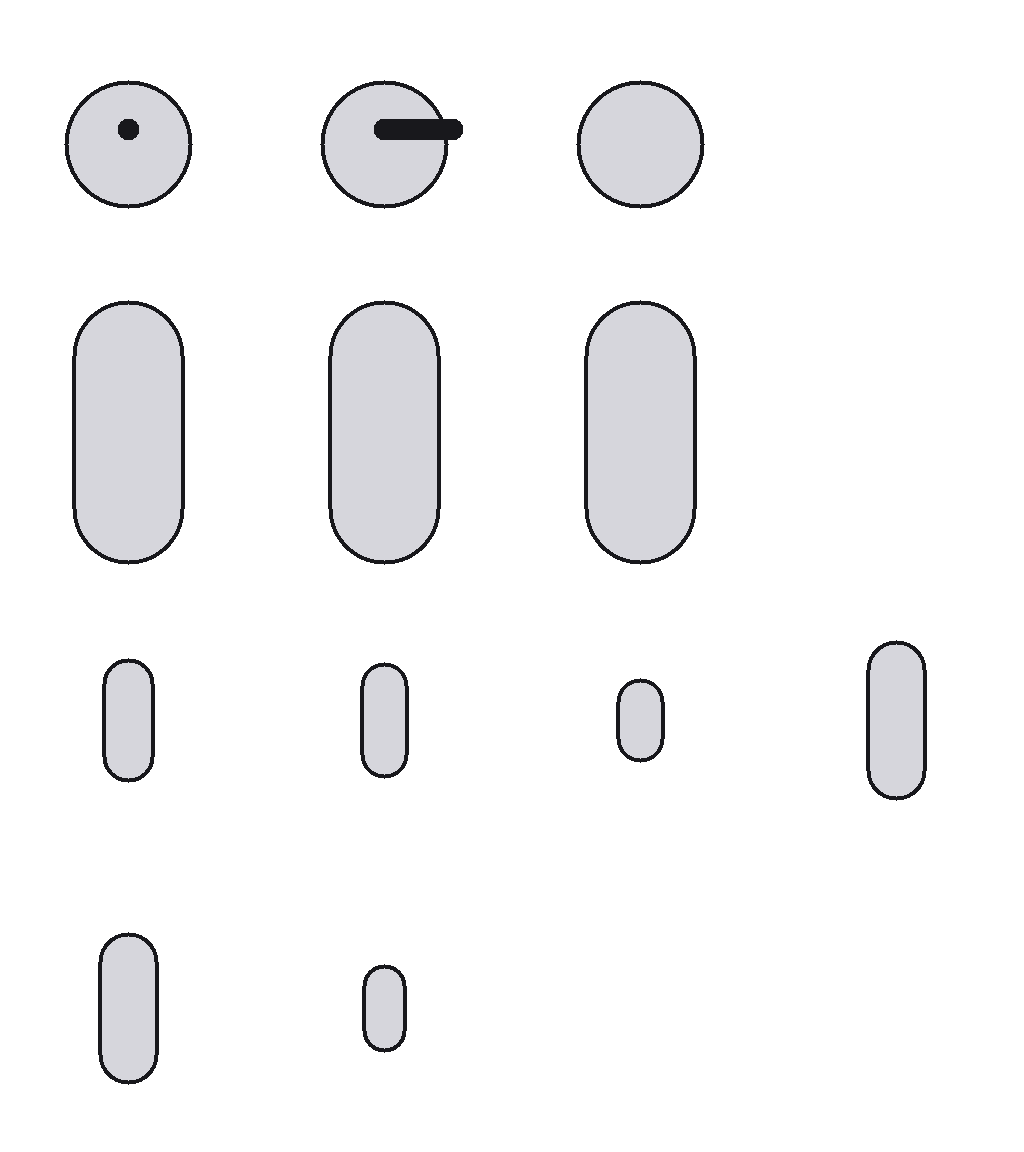
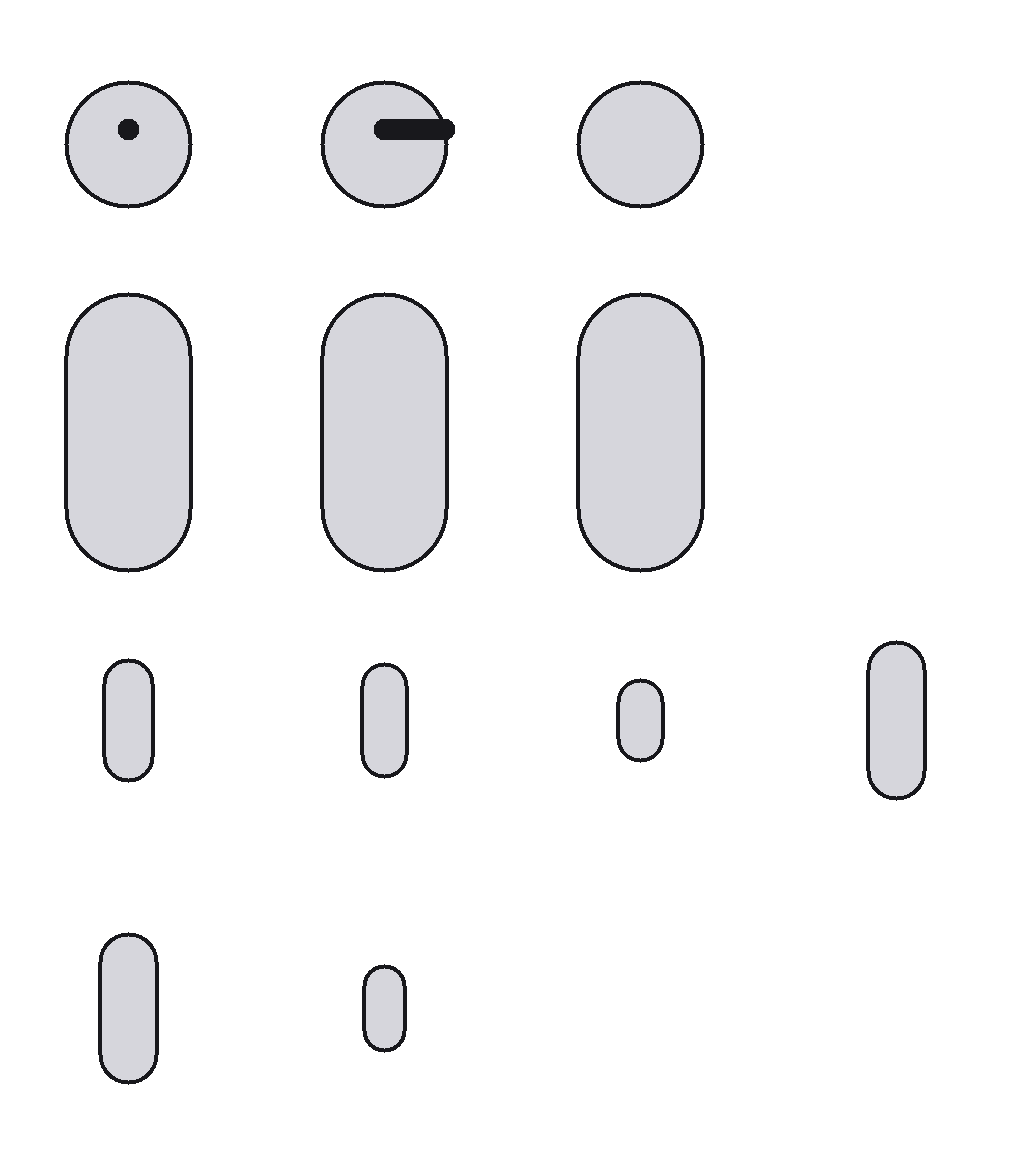
fix(mannequin): rend la pose lisible — contours, articulations, mains
Le PO ne parvenait pas à lire le gabarit, et il avait raison : les bras
disparaissaient dans le torse. Cause exacte — tous les contours étaient peints
d'abord, puis tous les remplissages, si bien que le remplissage du torse
effaçait le contour des bras. Chaque os porte désormais son contour avec lui.

Ajoute une rotule au genou et au coude, sans quoi cuisse et tibia forment un
trait continu dont l'angle se devine ; les mains, sans quoi le bras s'arrête net
là où se tient justement l'arme ; et affine le nez, qui se lisait de face comme
un œil unique au milieu du visage.

L'invariant est isolé dans `paintBones`, exporté, et testé sur deux os choisis :
mesuré sur le mannequin entier, la régression passait inaperçue car les rotules
remettaient de l'encre au milieu du corps. Preuve par mutation faite — le test
tombe sur l'ancien ordre de peinture.

diff --git a/src/artprep/mannequin.ts b/src/artprep/mannequin.ts
@@ -22,8 +22,12 @@ export const GROUND_PAD: number = 14;
 
 /** Épaisseur des membres, en pixels de rayon. */
 const LIMB_R: number = 13;
-const TORSO_R: number = 26;
+const TORSO_R: number = 30;
 const OUTLINE: number = 4;
+/** Rayon du nez. Assez fin pour rester un REPÈRE : plus épais, il se lisait de
+ *  face comme un œil unique au milieu du visage, et le générateur pouvait le
+ *  prendre pour un trait du personnage. */
+const NOSE_R: number = 6;
 
 const INK: readonly [number, number, number] = [24, 24, 28];
 /** Membre le plus PROCHE du spectateur. */
@@ -72,22 +76,54 @@ export function capsule(img: Rgba, a: Projected, b: Projected, r: number, c: rea
 }
 
 /** Un segment de membre : ses deux bouts à l'écran et sa profondeur moyenne. */
-interface Bone {
+export interface Bone {
   a: Projected;
   b: Projected;
   r: number;
   depth: number;
+  /** Dessiner une rotule à l extrémité `a` : le point où ce membre plie. */
+  joint?: boolean;
 }
 
-function bone(from: Vec3, to: Vec3, view: View, r: number, ox: number, oy: number): Bone {
+function bone(from: Vec3, to: Vec3, view: View, r: number, ox: number, oy: number, joint: boolean = false): Bone {
   const a: Projected = place(project(from, view), ox, oy);
   const b: Projected = place(project(to, view), ox, oy);
-  return { a, b, r, depth: (a.depth + b.depth) / 2 };
+  return { a, b, r, depth: (a.depth + b.depth) / 2, joint };
 }
 
 /** Passe du repère du squelette (y vers le haut, sol à 0) à celui de l'image. */
 function place(p: Projected, ox: number, oy: number): Projected {
   return { x: ox + p.x, y: oy - p.y, depth: p.depth };
+}
+
+/**
+ * Peint des os déjà triés du plus lointain au plus proche. MUTE `img`.
+ *
+ * Chaque os porte son contour AVEC lui, dans la même itération que son
+ * remplissage. C'est l'invariant de ce module, et il n'est pas cosmétique :
+ * peindre tous les contours d'abord, puis tous les remplissages, faisait
+ * recouvrir le contour des bras par le remplissage du torse. Les membres se
+ * fondaient alors en une masse dont ni un humain ni le générateur ne pouvaient
+ * lire la pose — c'est le PO qui l'a signalé, sur un gabarit censé justement
+ * rendre la pose évidente.
+ *
+ * Fonction à part, et exportée, pour que cet invariant soit testable sur deux os
+ * choisis plutôt que déduit d'un mannequin entier, où les rotules masquaient la
+ * régression.
+ */
+export function paintBones(img: Rgba, bones: readonly Bone[]): void {
+  for (const b of bones) {
+    const fill: readonly [number, number, number] = b.depth < -0.5 ? FAR : NEAR;
+    capsule(img, b.a, b.b, b.r + OUTLINE, INK);
+    capsule(img, b.a, b.b, b.r, fill);
+    // Rotule à l'extrémité proximale : c'est elle qui montre OÙ le membre plie.
+    // Sans elle, une cuisse et son tibia forment un trait continu dont l'angle
+    // se devine plutôt qu'il ne se voit.
+    if (b.joint) {
+      capsule(img, b.a, b.a, b.r * 0.62 + 2, INK);
+      capsule(img, b.a, b.a, b.r * 0.62, fill);
+    }
+  }
 }
 
 /**
@@ -99,31 +135,41 @@ function place(p: Projected, ox: number, oy: number): Projected {
  * fausses une pose sur deux.
  */
 export function drawPose(img: Rgba, j: Joints, view: View, ox: number, oy: number): void {
+  // `joint` sur le segment DISTAL de chaque membre : la rotule se dessine à son
+  // extrémité proximale, c'est-à-dire au genou et au coude. La marquer sur le
+  // segment proximal la placerait à la hanche et à l'épaule, où rien ne plie de
+  // façon lisible.
   const bones: Bone[] = [
     bone(j.hip[0], j.knee[0], view, LIMB_R, ox, oy),
-    bone(j.knee[0], j.foot[0], view, LIMB_R, ox, oy),
-    bone(j.foot[0], j.toe[0], view, FOOT_R, ox, oy),
+    bone(j.knee[0], j.foot[0], view, LIMB_R, ox, oy, true),
+    bone(j.foot[0], j.toe[0], view, FOOT_R, ox, oy, true),
     bone(j.hip[1], j.knee[1], view, LIMB_R, ox, oy),
-    bone(j.knee[1], j.foot[1], view, LIMB_R, ox, oy),
-    bone(j.foot[1], j.toe[1], view, FOOT_R, ox, oy),
+    bone(j.knee[1], j.foot[1], view, LIMB_R, ox, oy, true),
+    bone(j.foot[1], j.toe[1], view, FOOT_R, ox, oy, true),
     bone(j.shoulder[0], j.elbow[0], view, LIMB_R - 2, ox, oy),
-    bone(j.elbow[0], j.hand[0], view, LIMB_R - 3, ox, oy),
+    bone(j.elbow[0], j.hand[0], view, LIMB_R - 3, ox, oy, true),
     bone(j.shoulder[1], j.elbow[1], view, LIMB_R - 2, ox, oy),
-    bone(j.elbow[1], j.hand[1], view, LIMB_R - 3, ox, oy),
+    bone(j.elbow[1], j.hand[1], view, LIMB_R - 3, ox, oy, true),
   ];
+  // Mains : une boule au bout de l'avant-bras. Sans elle, le bras s'arrête net
+  // et le générateur n'a aucune raison d'y dessiner une main — or c'est là que
+  // se tient l'arme, dont la constance a coûté ADR-070.
+  const hands: Bone[] = [0, 1].map(i => {
+    const h: Bone = bone(j.hand[i]!, j.hand[i]!, view, LIMB_R - 2, ox, oy);
+    return h;
+  });
   const torso: Bone = bone(j.pelvis, j.neck, view, TORSO_R, ox, oy);
   const head: Bone = bone(j.head, j.head, view, HEAD_R, ox, oy);
   // Le nez part du centre de la tête : sa moitié arrière est donc toujours
   // enfouie dans le crâne, et seule la pointe dépasse — de face au centre du
   // visage, de profil sur le côté, de dos pas du tout. C'est ce qui distingue
   // la rangée de face de celle de dos, sans rien dessiner de plus.
-  const nose: Bone = bone(j.head, j.nose, view, 9, ox, oy);
+  const nose: Bone = bone(j.head, j.nose, view, NOSE_R, ox, oy);
 
   // Le torse et la tête sont à profondeur nulle : les membres qui passent
   // derrière eux doivent être peints avant, ceux qui passent devant après.
-  const all: Bone[] = [...bones, torso, head].sort((p, q) => p.depth - q.depth);
-  for (const b of all) capsule(img, b.a, b.b, b.r + OUTLINE, INK);
-  for (const b of all) capsule(img, b.a, b.b, b.r, b.depth < -0.5 ? FAR : NEAR);
+  const all: Bone[] = [...bones, ...hands, torso, head].sort((p, q) => p.depth - q.depth);
+  paintBones(img, all);
   // Le nez se peint APRÈS tout le reste et en ENCRE, pas en teinte de membre :
   // vu de face il est entièrement contenu dans la tête, et de la couleur du
   // crâne il y serait invisible — exactement la rangée où le repère manquerait.
@@ -131,7 +177,7 @@ export function drawPose(img: Rgba, j: Joints, view: View, ox: number, oy: numbe
   // En PROFIL le nez est dans le plan médian, donc à profondeur nulle : exiger
   // une profondeur strictement positive le faisait disparaître de la seule vue
   // où il dépasse vraiment.
-  if (nose.depth >= 0) capsule(img, nose.a, nose.b, 9, INK);
+  if (nose.depth >= 0) capsule(img, nose.a, nose.b, NOSE_R, INK);
 }
 
 /**

diff --git a/src/artprep/mannequin.test.ts b/src/artprep/mannequin.test.ts
@@ -1,6 +1,6 @@
 import { describe, expect, it } from "vitest";
 import { type Rgba } from "./image";
-import { CELL_H, CELL_W, mannequinSheet, piecesSheet } from "./mannequin";
+import { type Bone, capsule, CELL_H, CELL_W, mannequinSheet, paintBones, piecesSheet } from "./mannequin";
 import { POSES, VIEWS } from "./pose";
 
 /** Pixels opaques d'une case de la grille. */
@@ -114,5 +114,60 @@ describe("piecesSheet", () => {
     }
     const mid: number = CELL_W / 2;
     expect(Math.abs((minX + maxX) / 2 - mid)).toBeLessThan(3);
+  });
+});
+
+describe("paintBones — le contour survit au voisin", () => {
+  function blank(w: number, h: number): Rgba {
+    return { width: w, height: h, data: new Uint8Array(w * h * 4).fill(255) };
+  }
+
+  /** Deux os PARALLÈLES qui se chevauchent, l'un derrière l'autre. C'est la
+   *  configuration du bras devant le torse, réduite au strict nécessaire. */
+  function overlapping(): Bone[] {
+    return [
+      { a: { x: 40, y: 10, depth: -1 }, b: { x: 40, y: 90, depth: -1 }, r: 20, depth: -1 },
+      { a: { x: 55, y: 10, depth: 1 }, b: { x: 55, y: 90, depth: 1 }, r: 12, depth: 1 },
+    ];
+  }
+
+  /** Encre dans une bande CHOISIE, loin des bords extérieurs de la silhouette.
+   *  La séparation entre les deux os tombe en x = 39..43 : le contour de l'os
+   *  proche, peint par-dessus le remplissage du lointain. */
+  function inkBetween(img: Rgba, y: number, x0: number, x1: number): number {
+    let ink: number = 0;
+    for (let x: number = x0; x <= x1; x++) {
+      if (img.data[(y * img.width + x) * 4]! < 60) ink++;
+    }
+    return ink;
+  }
+
+  it("laisse une SÉPARATION entre deux os superposés", () => {
+    // Le défaut d'origine : contours d'abord, remplissages ensuite. Le
+    // remplissage de l'os proche effaçait alors le contour qui le détachait de
+    // celui de derrière, et les deux se fondaient en une seule forme.
+    const img: Rgba = blank(120, 100);
+    paintBones(img, overlapping());
+    expect(inkBetween(img, 50, 35, 45)).toBeGreaterThan(0);
+  });
+
+  it("le prouve : en DEUX passes, la séparation disparaît", () => {
+    // Reproduit à la main l'ancien ordre, pour que le test précédent ne puisse
+    // pas passer par accident. Si cette assertion venait à échouer, c'est que
+    // l'invariant ne se mesure plus là où on croit.
+    const img: Rgba = blank(120, 100);
+    const bones: Bone[] = overlapping();
+    for (const b of bones) capsule(img, b.a, b.b, b.r + 4, [24, 24, 28]);
+    for (const b of bones) capsule(img, b.a, b.b, b.r, [214, 214, 220]);
+    expect(inkBetween(img, 50, 35, 45)).toBe(0);
+  });
+
+  it("dessine une rotule là où le membre plie", () => {
+    const plain: Rgba = blank(120, 100);
+    const jointed: Rgba = blank(120, 100);
+    const b: Bone = { a: { x: 60, y: 20, depth: 0 }, b: { x: 60, y: 80, depth: 0 }, r: 14, depth: 0 };
+    paintBones(plain, [b]);
+    paintBones(jointed, [{ ...b, joint: true }]);
+    expect(inkBetween(jointed, 20, 50, 70)).toBeGreaterThan(inkBetween(plain, 20, 50, 70));
   });
 });

diff --git a/src/artprep/pose.ts b/src/artprep/pose.ts
@@ -70,7 +70,7 @@ export const HAND: number = 18;
 /** Demi-épaisseur du pied : ce qui sépare la cheville du sol. */
 export const FOOT_R: number = 9;
 /** Longueur du nez, en avant du centre de la tête. */
-export const NOSE: number = 34;
+export const NOSE: number = 30;
 
 /** Nombre de poses du cycle. Quatre clés : contact, passage, contact inverse,
  *  passage inverse. Au-delà, un générateur interpole au lieu de créer. */
